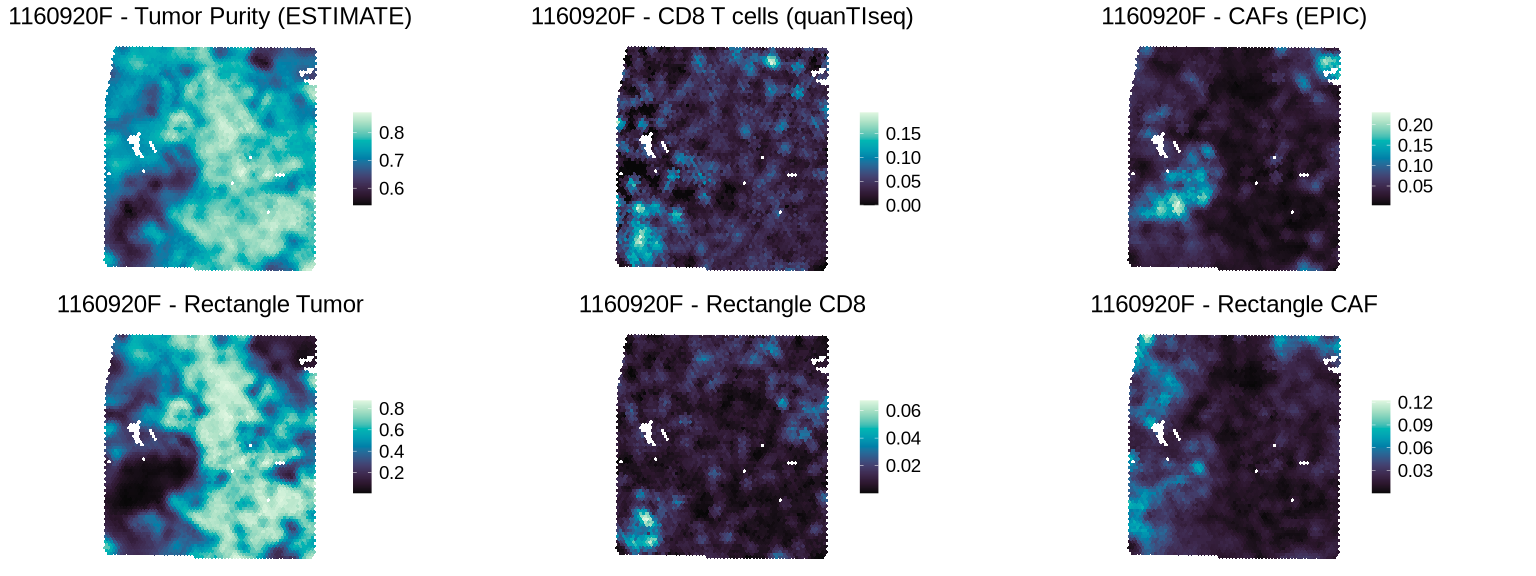
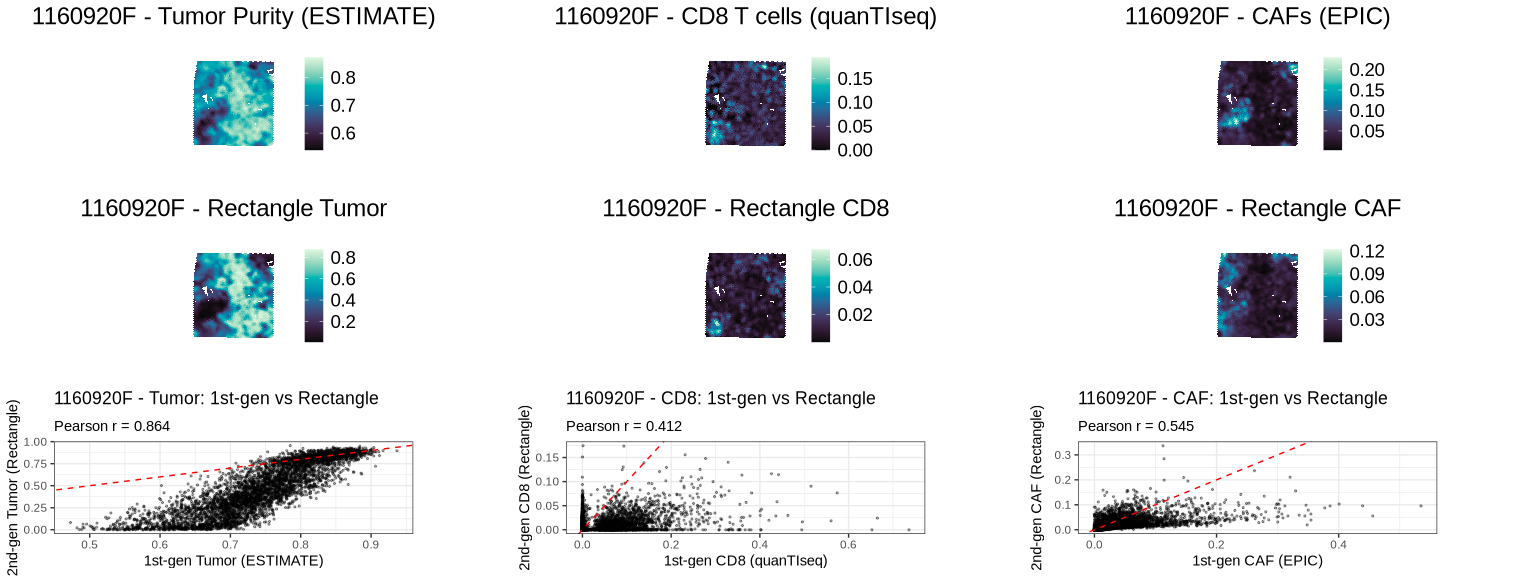
added scatter plots

diff --git a/report/breast_cancer_analysis.md b/report/breast_cancer_analysis.md
@@ -133,7 +133,51 @@ for (slide in slides) {
         legend_size = legend_size
       )
 
-      panel <- cowplot::plot_grid(p_tumor, p_cd8, p_caf, p_rect_tumor, p_rect_cd8, p_rect_caf, ncol = 3, align = "hv")
+      first_tumor <- SummarizedExperiment::colData(est)$estimate_tumor.purity
+      first_cd8 <- SummarizedExperiment::colData(qua)$quantiseq_T.cell.CD8.
+      first_caf <- SummarizedExperiment::colData(epi)$epic_Cancer.associated.fibroblast
+
+      mk_scatter <- function(x, y, title, xlab, ylab) {
+        d <- data.frame(x = as.numeric(x), y = as.numeric(y))
+        d <- d[stats::complete.cases(d), , drop = FALSE]
+        r <- if (nrow(d) > 1) stats::cor(d$x, d$y, method = "pearson") else NA_real_
+        ggplot(d, aes(x = x, y = y)) +
+          geom_point(size = 0.5, alpha = 0.35) +
+          geom_abline(slope = 1, intercept = 0, linetype = "dashed", color = "red") +
+          labs(
+            title = title,
+            subtitle = paste0("Pearson r = ", ifelse(is.na(r), "NA", sprintf("%.3f", r))),
+            x = xlab,
+            y = ylab
+          ) +
+          theme_bw(base_size = 11)
+      }
+
+      p_sc_tumor <- mk_scatter(
+        first_tumor, rect_tumor[idx],
+        paste0(slide, " - Tumor: 1st-gen vs Rectangle"),
+        "1st-gen Tumor (ESTIMATE)",
+        "2nd-gen Tumor (Rectangle)"
+      )
+      p_sc_cd8 <- mk_scatter(
+        first_cd8, rect_cd8[idx],
+        paste0(slide, " - CD8: 1st-gen vs Rectangle"),
+        "1st-gen CD8 (quanTIseq)",
+        "2nd-gen CD8 (Rectangle)"
+      )
+      p_sc_caf <- mk_scatter(
+        first_caf, rect_caf[idx],
+        paste0(slide, " - CAF: 1st-gen vs Rectangle"),
+        "1st-gen CAF (EPIC)",
+        "2nd-gen CAF (Rectangle)"
+      )
+
+      panel <- cowplot::plot_grid(
+        p_tumor, p_cd8, p_caf,
+        p_rect_tumor, p_rect_cd8, p_rect_caf,
+        p_sc_tumor, p_sc_cd8, p_sc_caf,
+        ncol = 3, align = "hv"
+      )
     } else {
       panel <- cowplot::plot_grid(p_tumor, p_cd8, p_caf, ncol = 3, align = "hv")
     }
@@ -147,7 +191,7 @@ for (slide in slides) {
     filename = file.path("../results/plots", paste0("slide_", slide, "_targets.png")),
     plot = panel,
     width = 16,
-    height = 10,
+    height = 14,
     units = "in",
     dpi = 300,
     bg = "white"
@@ -155,36 +199,24 @@ for (slide in slides) {
 }
 ```
 
-    ## 
-    ## ### Slide andersson
+### Slide andersson
 
-    ## 
-    ## ### Slide 1142243F
+### Slide 1142243F
 
 ![](breast_cancer_analysis_files/figure-gfm/per-slide-plots-1.png)<!-- -->
-
-    ## 
-    ## ### Slide 1160920F
+\### Slide 1160920F
 
 ![](breast_cancer_analysis_files/figure-gfm/per-slide-plots-2.png)<!-- -->
-
-    ## 
-    ## ### Slide 4465
+\### Slide 4465
 
 ![](breast_cancer_analysis_files/figure-gfm/per-slide-plots-3.png)<!-- -->
-
-    ## 
-    ## ### Slide 44971
+\### Slide 44971
 
 ![](breast_cancer_analysis_files/figure-gfm/per-slide-plots-4.png)<!-- -->
-
-    ## 
-    ## ### Slide 4290
+\### Slide 4290
 
 ![](breast_cancer_analysis_files/figure-gfm/per-slide-plots-5.png)<!-- -->
-
-    ## 
-    ## ### Slide 4535
+\### Slide 4535
 
 ![](breast_cancer_analysis_files/figure-gfm/per-slide-plots-6.png)<!-- -->![](breast_cancer_analysis_files/figure-gfm/per-slide-plots-7.png)<!-- -->
 
